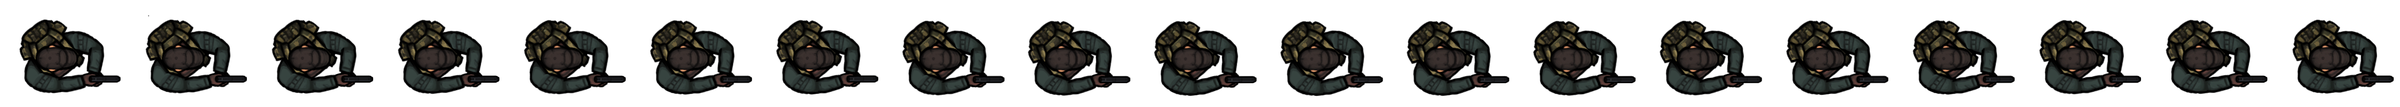
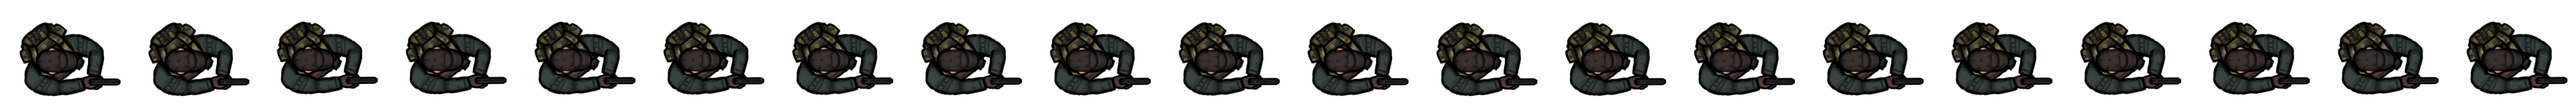
Improved player change weapon image methods and added new sprite sheets for player weapons initial state.

diff --git a/src/game/models/Player.java b/src/game/models/Player.java
@@ -14,12 +14,12 @@ import java.util.HashMap;
 
 public class Player extends HumanObject {
 
-    private final int SPRITE_COUNT = 19;
-    private final int SPRITE_COLUMNS = 19;
+    private final int SPRITE_COUNT = 20;
+    private final int SPRITE_COLUMNS = 20;
     private final int SPRITE_OFFSET_X = 0;
     private final int SPRITE_OFFSET_Y = 0;
-    private final int SPRITE_WIDTH = 258;
-    private final int SPRITE_HEIGHT = 215;
+    private final int SPRITE_WIDTH = 263;
+    private final int SPRITE_HEIGHT = 220;
     private final double PLAYER_INITIAL_HEALTH = 100;
     private final int PLAYER_INITIAL_SCORE = 0;
     private final int PLAYER_INITIAL_LIVES = 3;
@@ -45,6 +45,7 @@ public class Player extends HumanObject {
         this.setSpriteOffsetY(SPRITE_OFFSET_Y);
         this.setSpriteWidth(SPRITE_WIDTH);
         this.setSpriteHeight(SPRITE_HEIGHT);
+
 
         this.setPlayerImageView(new ImageView(ImageLoader.playerImage));
 
@@ -138,17 +139,16 @@ public class Player extends HumanObject {
         this.playerImageView = playerImageView;
     }
 
+    public void addWeapon(Weapon weaponName) {
+        this.weaponList.put(weaponName.getName(), weaponName);
+    }
+
     public Weapon getCurrentWeapon() {
         return currentWeapon;
     }
 
     private void setCurrentWeapon(Weapon currentWeapon) {
         this.currentWeapon = currentWeapon;
-    }
-
-
-    public void addWeapon(Weapon weaponName) {
-        this.weaponList.put(weaponName.getName(), weaponName);
     }
 
     public void changeWeapon(String weaponName) {
@@ -165,35 +165,19 @@ public class Player extends HumanObject {
 
     private void changePlayerWeaponImage(String stateName) {
 
-        int spriteCount = 0;
-        int spriteColumns = 0;
         int spriteWidth = 0;
-        int spriteHeigh = 0;
-        int animationDuration = 0;
 
         switch (stateName) {
-            case "PistolState":
-                spriteCount = SPRITE_COUNT;
-                spriteColumns = SPRITE_COLUMNS;
-                spriteWidth = SPRITE_WIDTH;
-                spriteHeigh = SPRITE_HEIGHT;
-                animationDuration = 200;
-                break;
-            case "MachineGunState":
-                spriteCount = 20;
-                spriteColumns = 20;
-                spriteWidth = 272;
-                spriteHeigh = 200;
-                animationDuration = 800;
-                break;
+            case "PistolState": spriteWidth = SPRITE_WIDTH; break;
+            case "MachineGunState": spriteWidth = 323; break;
         }
 
-        this.setSpriteCount(spriteCount);
-        this.setSpriteColumns(spriteColumns);
+        this.setSpriteCount(SPRITE_COUNT);
+        this.setSpriteColumns(SPRITE_COLUMNS);
         this.setSpriteOffsetX(0);
         this.setSpriteOffsetY(0);
         this.setSpriteWidth(spriteWidth);
-        this.setSpriteHeight(spriteHeigh);
+        this.setSpriteHeight(SPRITE_HEIGHT);
 
         if (stateName.equals("PistolState")) {
             this.setPlayerImageView(new ImageView(ImageLoader.playerImage));
@@ -208,7 +192,7 @@ public class Player extends HumanObject {
 
         this.getPlayerImageView().setViewport(new Rectangle2D(this.getSpriteOffsetX(), this.getSpriteOffsetY(), this.getSpriteWidth(), this.getSpriteHeight()));
         this.setAnimation(new SpriteAnimation(this.getPlayerImageView(),
-                Duration.millis(animationDuration),
+                Duration.millis(200),
                 this.getSpriteCount(),
                 this.getSpriteColumns(),
                 this.getSpriteOffsetX(),
@@ -216,6 +200,4 @@ public class Player extends HumanObject {
                 this.getSpriteWidth(),
                 this.getSpriteHeight()));
     }
-
-
 }
